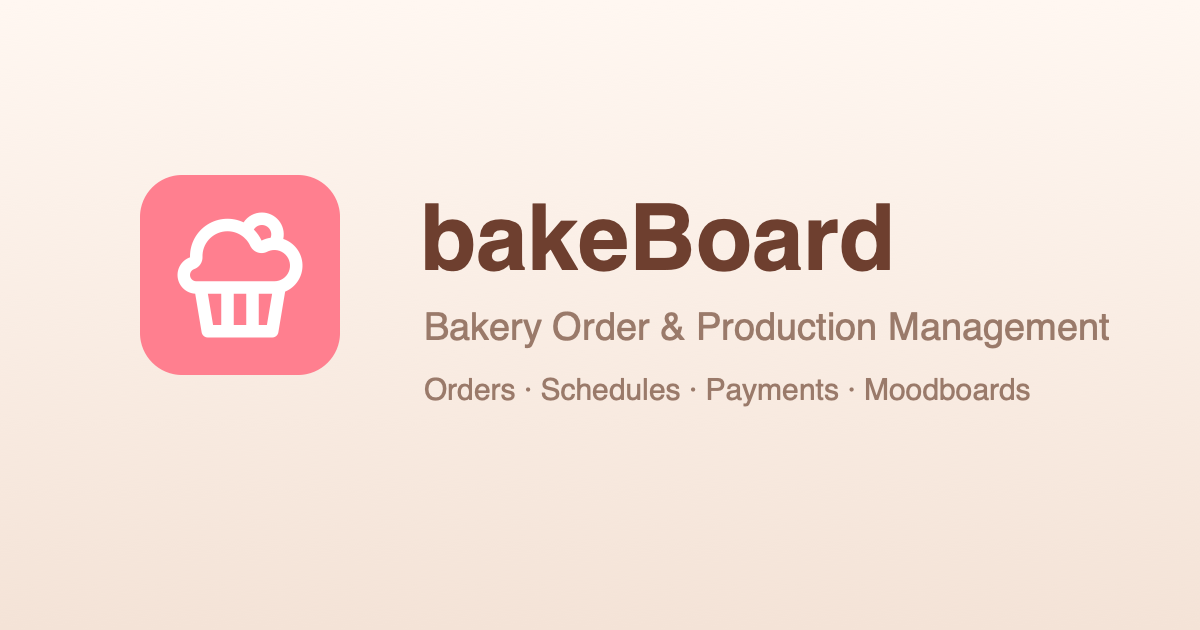
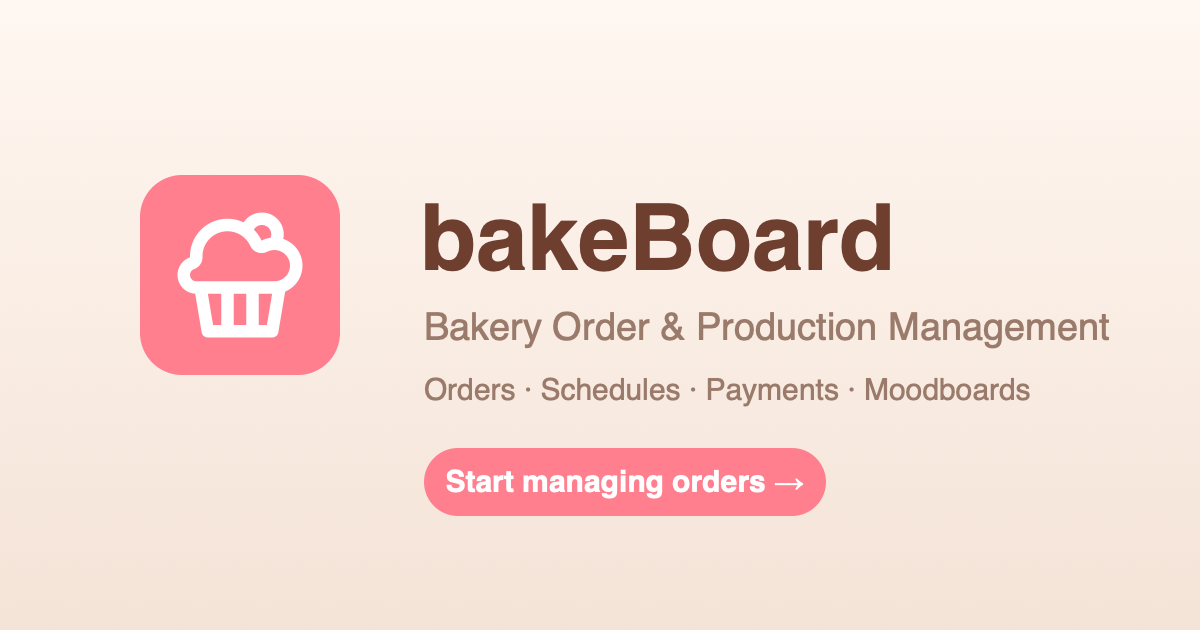
Tighten meta descriptions and add CTA to OG image
- Shorten meta description (177->136 chars) and og:description
  (144->112 chars) to avoid search/social truncation
- Add "Start managing orders" call-to-action button to og-image

Changed region(s): [[0.3392, 0.6937, 0.7092, 0.8444]]

diff --git a/public/index.html b/public/index.html
@@ -13,7 +13,7 @@
       content="bakeBoard — Bakery Order & Production Management" />
     <meta
       name="description"
-      content="bakeBoard helps bakers and cake studios manage custom orders, production schedules, payments, and moodboards in one simple dashboard. Track every order from inquiry to delivery." />
+      content="Manage custom bakery orders, schedules, payments, and moodboards in one simple dashboard — track every order from inquiry to delivery." />
     <meta
       name="keywords"
       content="bakery management, cake order management, custom cake orders, bakery dashboard, baking production schedule, order tracking, cake studio software" />
@@ -29,7 +29,7 @@
       content="bakeBoard — Bakery Order & Production Management" />
     <meta
       property="og:description"
-      content="Manage custom bakery orders, production schedules, payments, and moodboards in one simple dashboard. Track every order from inquiry to delivery." />
+      content="Manage custom bakery orders, schedules, payments, and moodboards — track every order from inquiry to delivery." />
     <meta property="og:image" content="https://bakeboard.cofeeui.com/og-image.png" />
     <meta property="og:image:alt" content="bakeBoard order management dashboard" />
     <meta property="og:locale" content="en_US" />